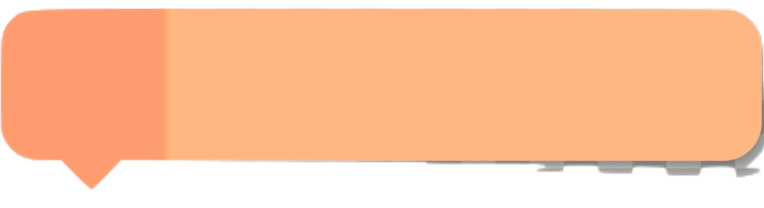
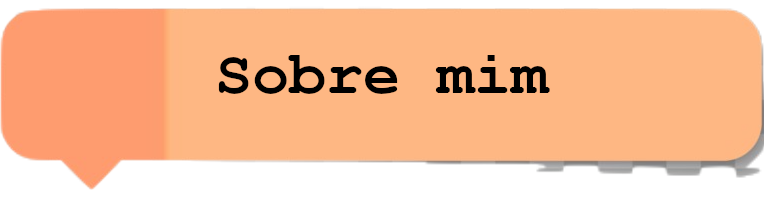
nav header responsivo

Changed region(s): [[0.2709, 0.2596, 0.5419, 0.4615], [0.572, 0.3173, 0.7225, 0.4615], [0.6322, 0.2596, 0.6623, 0.2885]]

diff --git a/index.html b/index.html
@@ -1,5 +1,6 @@
 <!DOCTYPE html>
 <html lang="pt-br">
+
 <head>
     <meta charset="UTF-8">
     <meta name="viewport" content="width=device-width, initial-scale=1.0">
@@ -7,67 +8,65 @@
     <link rel="stylesheet" href="estilos/styles.css">
     <title>Portfólio</title>
 </head>
+
 <body>
-<header class="container_cabecalho">
-    <h1 class="titulo__cabecalho">Portfólio</h1>
-    <i id="burguer" class="material-icons" onclick="clickMenu()">menu</i>
-    <div id="menu">
-        <nav class="navegador">
-            <ul class="lista_cabecalho">
-                <li class="nav_item_post_it_orange">
-                    <a class="link_orange" href="#index.html">
-                        <img class="img_orange" src="image/post_it_width_orange.png" alt="Home">
-                        <span class="link_text">Home</span>
-                    </a>
-                </li>
-                <li class="nav_item_post_it_pink">
-                    <a class="link_pink" href="#sobre_mim.html">
-                        <img class="img_pink" src="image/post_it_width_pink.png" alt="Sobre-mim">
-                        <span class="link_text">Sobre mim</span>
-                    </a>
-                </li>
-                <li class="nav_item_post_it_yellow">
-                    <a class="link_yellow" href="#projetos.html">
-                        <img class="img_yellow" src="image/post_it_width_yellow.png" alt="Projetos">
-                        <span class="link_text">Projetos</span>
-                    </a>
-                </li>
-                <li class="nav_item_post_it_green">
-                    <a class="link_green" href="#contatos.html">
-                        <img class="img_green" src="image/post_it_width_green.png" alt="Contatos">
-                        <span class="link_text">Contato</span>
-                    </a>
-                </li>
-            </ul>
-        </nav>
-        
-        
-    </div>
-</header>
-<section class="contato">
-    <ul class="lista__contato">
-        <li><img class="contato__icon" src="image/logo-github.jpg" alt="github"></li>
-        <li><img class="contato__icon" src="image/linkedin-logo.avif" alt="linkdin"></li>
-        <li><img class="contato__icon" src="image/logo-instagram.jpg" alt="instagram"></li>
-        <li><img class="contato__icon" src="image/logo-facebook.jpg" alt="facebook"></li>
-        <li><img class="contato__icon" src="image/logo-pinterest.jpg" alt="pinterest"></li>
-        <li><img class="contato__icon" src="image/inscricao.png" alt="cv"></li>
-    </ul>
-</section>
+    <header class="container_cabecalho">
+        <h1 class="titulo__cabecalho">Portfólio</h1>
+        <i id="burguer" class="material-icons" onclick="clickMenu()">menu</i>
+        <div id="menu">
+            <nav class="navegador">
+                <ul class="lista_cabecalho">
+                    <li class="nav_item">
+                        <a class="link_nav" href="#index.html">HOME
+                            <a class="link_nav" href="#projetos.html">
+                                <img class="yellow" src="image/post_it_width_yellow.png" alt="Projetos">
+                            </a>
+                    </li>
+                    <li class="nav_item">
+                        <a href="link_nav">
+                            <img class="orange" src="image/post_it_width_orange.png" alt="Home">
+                        </a>
+                    </li>
+                    <li class="nav_item">
+                        <a class="link_nav" href="#sobre_mim.html">
+                            <img class="pink" src="image/post_it_width_pink.png" alt="Sobre-mim">
+                        </a>
+                    </li>
 
-<div class="container__apresentacao">
+                    <li class="nav_item">
+                        <a class="link_nav" href="#contatos.html">
+                            <img class="green" src="image/post_it_width_green.jpg" alt="Contatos">
+                        </a>
+                    </li>
+                </ul>
+            </nav>
 
-    <picture>
-        <img class="post__it" src="image/post-it_850.png" alt="post_it">
-    </picture>
-    
-    <picture class="perfil">
-        <img class="foto-miriam" src="image/miriam-1.png" alt="foto-miriam">
-    </picture>
+        </div>
+    </header>
+    <section class="contato">
+        <ul class="lista__contato">
+            <li><img class="contato__icon" src="image/logo-github.jpg" alt="github"></li>
+            <li><img class="contato__icon" src="image/linkedin-logo.avif" alt="linkdin"></li>
+            <li><img class="contato__icon" src="image/logo-instagram.jpg" alt="instagram"></li>
+            <li><img class="contato__icon" src="image/logo-facebook.jpg" alt="facebook"></li>
+            <li><img class="contato__icon" src="image/logo-pinterest.jpg" alt="pinterest"></li>
+            <li><img class="contato__icon" src="image/inscricao.png" alt="cv"></li>
+        </ul>
+    </section>
+
+    <div class="container__apresentacao">
+
+        <picture>
+            <img class="post__it" src="image/post-it_850.png" alt="post_it">
+        </picture>
+
+        <picture class="perfil">
+            <img class="foto-miriam" src="image/miriam-1.png" alt="foto-miriam">
+        </picture>
         <script>
             const icons = document.getElementById('icons');
             const burguer = document.getElementById('burguer');
-        
+
             function mudouTamanho() {
                 if (window.innerWidth >= 768) {
                     menu.style.display = 'block';  // Mostra os ícones no desktop
@@ -75,28 +74,28 @@
                     menu.style.display = 'none';   // Oculta os ícones em telas pequenas
                 }
             }
-        
+
             function clickMenu() {
                 // Obtém o valor real da propriedade display usando getComputedStyle
                 const displayStyle = window.getComputedStyle(menu).display;
-                
+
                 if (displayStyle === 'block') {
                     menu.style.display = 'none'; // Oculta o menu ao clicar se estiver visível
                 } else {
                     menu.style.display = 'block'; // Exibe o menu ao clicar se estiver oculto
                 }
             }
-        
+
             window.onload = () => {
                 mudouTamanho(); // Chama a função quando a página carrega para ajustar a visibilidade
             };
-        
+
             window.onresize = () => {
                 mudouTamanho(); // Chama a função sempre que a janela for redimensionada
             };
         </script>
-        
-        
+
+
 </body>
 
 

diff --git a/estilos/styles.css b/estilos/styles.css
@@ -22,7 +22,7 @@ header {
 .titulo__cabecalho {
     transform: rotate(-90deg);
     margin: 8%;
-    margin: 78% 0% 0% 0%;
+    margin: 85% 0% 0% 0%;
     font-size: 3rem;
 }
 
@@ -50,54 +50,20 @@ header {
     justify-content: center;
 }
 
-.img_orange{
-    width: 28vw;
-    position: absolute;
-    top: 50%;
-    left: 50%;
-    transform: translate(-147%, 33%);
-    color: white;
-    padding: 10px;
-    border-radius: 5px;
-}
-
-.img_green{
-    width: 28vw;
-    position: absolute;
-    top: 50%;
-    left: 50%;
-    transform: translate(-148%, 239%);
-    color: white;
-    padding: 10px;
-    border-radius: 5px
-}
-
-.img_pink {
-    width: 29vw;
-    position: absolute;
-    top: 50%;
-    left: 50%;
-    transform: translate(-144%, 108%);
-    color: white;
-    padding: 10px;
-    border-radius: 5px
-}
+.img_orange,
+.img_pink, 
+.img_green,
 .img_yellow{
-    width: 30vw;
-    position: absolute;
-    top: 50%;
-    left: 50%;
-    transform: translate(-141%, 180%);
-    color: white;
-    padding: 10px;
-    border-radius: 5px;
+    width: 12vw;
 }
+
+
 
 .link_text{
     position: relative;
     display: inline-block;
-    width: 10vw;
 }
+
 .pink, 
 .yellow, 
 .orange, 
@@ -156,7 +122,7 @@ header {
 }
 
 .post-desk {
-    width: 5vw;
+    width: 15vw;
 }
 
 
@@ -168,69 +134,6 @@ header {
     z-index: 0;
     margin-top: -8vh;
 }
-
-
-
-
-
-
-
-.navegador {
-    display: flex; /* Para alinhar os itens na horizontal */
-}
-
-.lista_cabecalho {
-    list-style-type: none; /* Remove a marcação padrão da lista */
-    padding: 0; /* Remove o padding da lista */
-    margin: 0; /* Remove a margem da lista */
-}
-
-.nav_item_post_it {
-    position: relative; /* Para garantir que o texto fique em cima da imagem */
-    margin: 10px; /* Espaçamento entre os itens */
-}
-
-.nav_item_post_it a {
-    display: block; /* Faz com que o link ocupe toda a área do item */
-    width: 18vw; /* Largura do link */
-    height: 18vw; /* Altura do link (ajustável conforme necessidade) */
-    text-align: center; /* Centraliza o texto */
-    color: white; /* Cor do texto */
-    text-decoration: none; /* Remove o sublinhado do link */
-    border-radius: 5px; /* Borda arredondada */
-    position: relative; /* Para garantir que o texto fique em cima da imagem */
-}
-
-.link_orange {
-    background-image: url('image/post_it_width_orange.png'); /* Imagem de fundo para o link Home */
-    background-size: cover; /* Faz com que a imagem cubra todo o fundo */
-}
-
-.link_pink {
-    background-image: url('image/post_it_width_pink.png'); /* Imagem de fundo para o link Sobre mim */
-    background-size: cover; /* Faz com que a imagem cubra todo o fundo */
-}
-
-.link_yellow {
-    background-image: url('image/post_it_width_yellow.png'); /* Imagem de fundo para o link Projetos */
-    background-size: cover; /* Faz com que a imagem cubra todo o fundo */
-}
-
-.link_green {
-    background-image: url('image/post_it_width_green.png'); /* Imagem de fundo para o link Contato */
-    background-size: cover; /* Faz com que a imagem cubra todo o fundo */
-}
-
-.link_text {
-    position: relative; /* Para garantir que o texto fique em cima da imagem */
-    z-index: 1; /* Garante que o texto fique acima da imagem */
-    padding: 10px; /* Espaçamento em volta do texto */
-}
-
-
-
-
-
 /* ____________________________________________________________________________________________________________ */
 /* ____________________________________________________________________________________________________________ */
 @media (min-width: 768px) {
